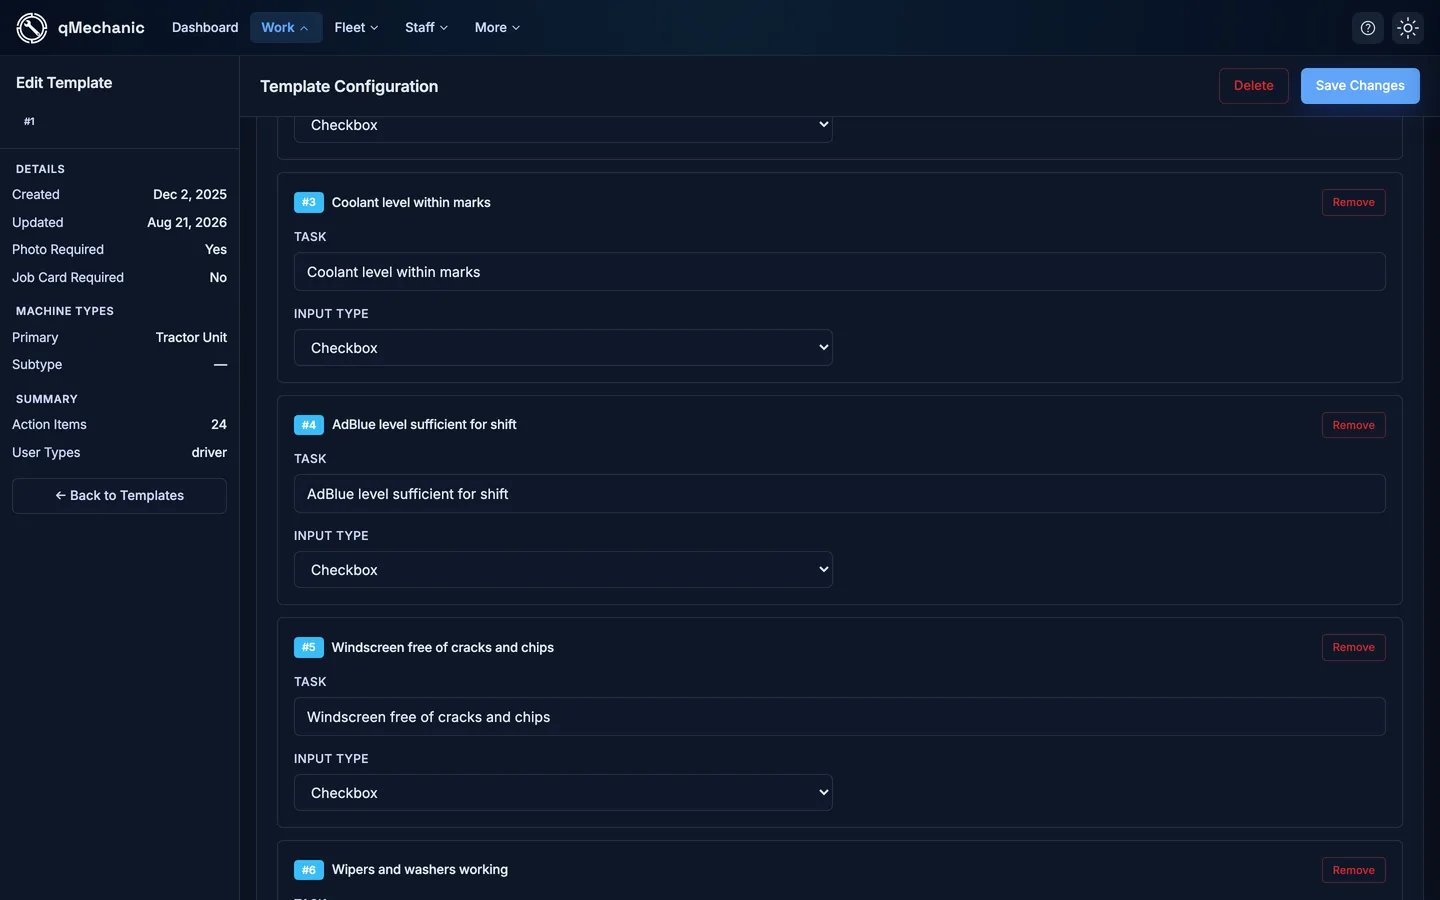
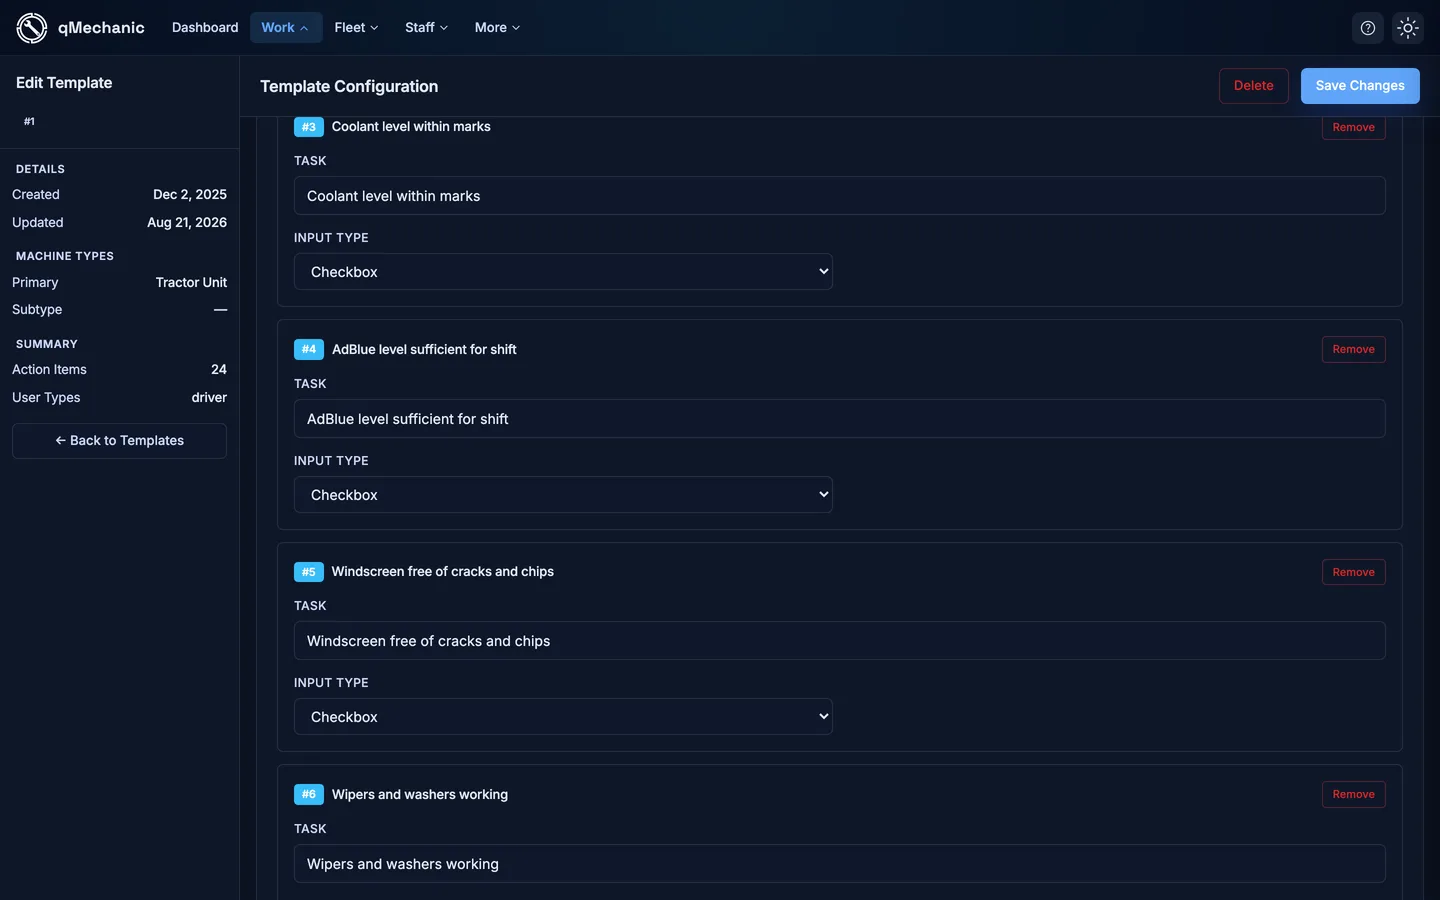
Correct help centre: remove settings that were never implemented (#3)
* Make the help centre easier to navigate

The illustrated guides made individual articles long — the inspections setup
guide is ten sections with screenshots — and 18 articles is enough that
scanning the index is work. Adds the navigation the content now needs.

Index:
  - Client-side search across titles, summaries and section headings. Every
    word must match, so "driver inspection" narrows rather than widening the
    way an OR match would. Live result count, and a no-match state that points
    at support.
  - A "New to qMechanic?" panel naming the three inspections guides as an
    explicit ordered track, since they are meant to be read in sequence and
    otherwise sit in the grid as unrelated peers. Hidden while searching,
    where it is just noise.

Articles:
  - "On this page" table of contents, shown only where an article has more
    than two sections.
  - Stable anchor ids on every section heading, so headings are deep-linkable.
    scroll-margin-top keeps the sticky header from covering the target.
  - Previous/next pager through the articles for the same audience, so the
    inspections track can be read straight through.

Also adds a `phone` flag to KbShot. Phone-shaped captures render at 300px and
centred rather than filling the 760px column, ready for mobile app screenshots.

Verified: next build prerenders all 18 help pages; search box, start-here
track, table of contents, anchor ids and pager all present in the served HTML;
[…]

diff --git a/app/(marketing)/help/content.ts b/app/(marketing)/help/content.ts
@@ -336,7 +336,7 @@ const ADMIN_ARTICLES: KbArticle[] = [
         steps: [
           'Name it plainly — “Daily Walkaround Check - Tractor Unit” beats “Template 1”.',
           'Set Repeat period (days) to 1 for a daily check, 42 for a six-weekly inspection.',
-          'Tick “Photo evidence required” if you want the inspector to attach a photo before they can finish.',
+          'Add a Description if the name alone is not obvious — inspectors see it under the template name when they pick a check.',
           'Under Action Items, select “Add Item” and write one line per physical check.',
           'Choose the Input Type for each item (see the note below), then Save.',
         ],
@@ -437,13 +437,10 @@ const ADMIN_ARTICLES: KbArticle[] = [
         ],
         steps: [
           'Name — what inspectors see in the app. Make it specific.',
-          'Repeat period (days) — how often this check is due. Drives the schedule.',
-          'Photo evidence required — forces a photo before the inspection can be submitted.',
-          'Job card required — automatically raises a job card when this inspection is completed.',
-          'Fixed job hours / Fixed job price — pre-fills the job card raised from this inspection.',
-          'Instruction line — the text that appears on that job card.',
-          'Odometer reading — prompts the inspector for a mileage reading.',
-          'Restricted user types — which user types are offered this checklist.',
+          'Repeat period (days) — how often this check is due. Drives the schedule and the “next due” date.',
+          'Description — a short line shown under the template name when an inspector picks a check.',
+          'Restrict to user types — tick the user types that should be offered this checklist. Leave all unchecked and everybody sees it.',
+          'Machine type (and subtype) — which kind of vehicle this checklist applies to.',
         ],
       },
       {
@@ -476,26 +473,6 @@ const ADMIN_ARTICLES: KbArticle[] = [
           'If a check changes fundamentally, consider building a new template and retiring the old one rather than editing it, so the two sets of results stay comparable.',
         ],
       },
-      {
-        heading: 'Making an inspection raise a job card automatically',
-        intro:
-          'For workshop inspections — a six-weekly safety inspection, say — you usually want the paperwork to exist the moment the inspection is done.',
-        steps: [
-          'Open the template and tick “Job card required”.',
-          'Set Fixed job hours and Fixed job price if the work is normally a known quantity.',
-          'Put the standing instruction in Instruction line, e.g. “Rectify defects found at six-weekly safety inspection”.',
-          'Save. From now on, completing this inspection creates a linked job card.',
-        ],
-      },
-    ],
-  },
-  {
-    slug: 'admin-inspection-results',
-    audience: 'admin',
-    title: 'Reviewing inspections, defects and follow-up',
-    summary: 'Read completed checks, act on the faults they surface, and prove your daily compliance.',
-    forWho: 'Anyone responsible for making sure checks are done and faults get fixed.',
-    sections: [
       {
         heading: 'Completed inspections',
         intro:
